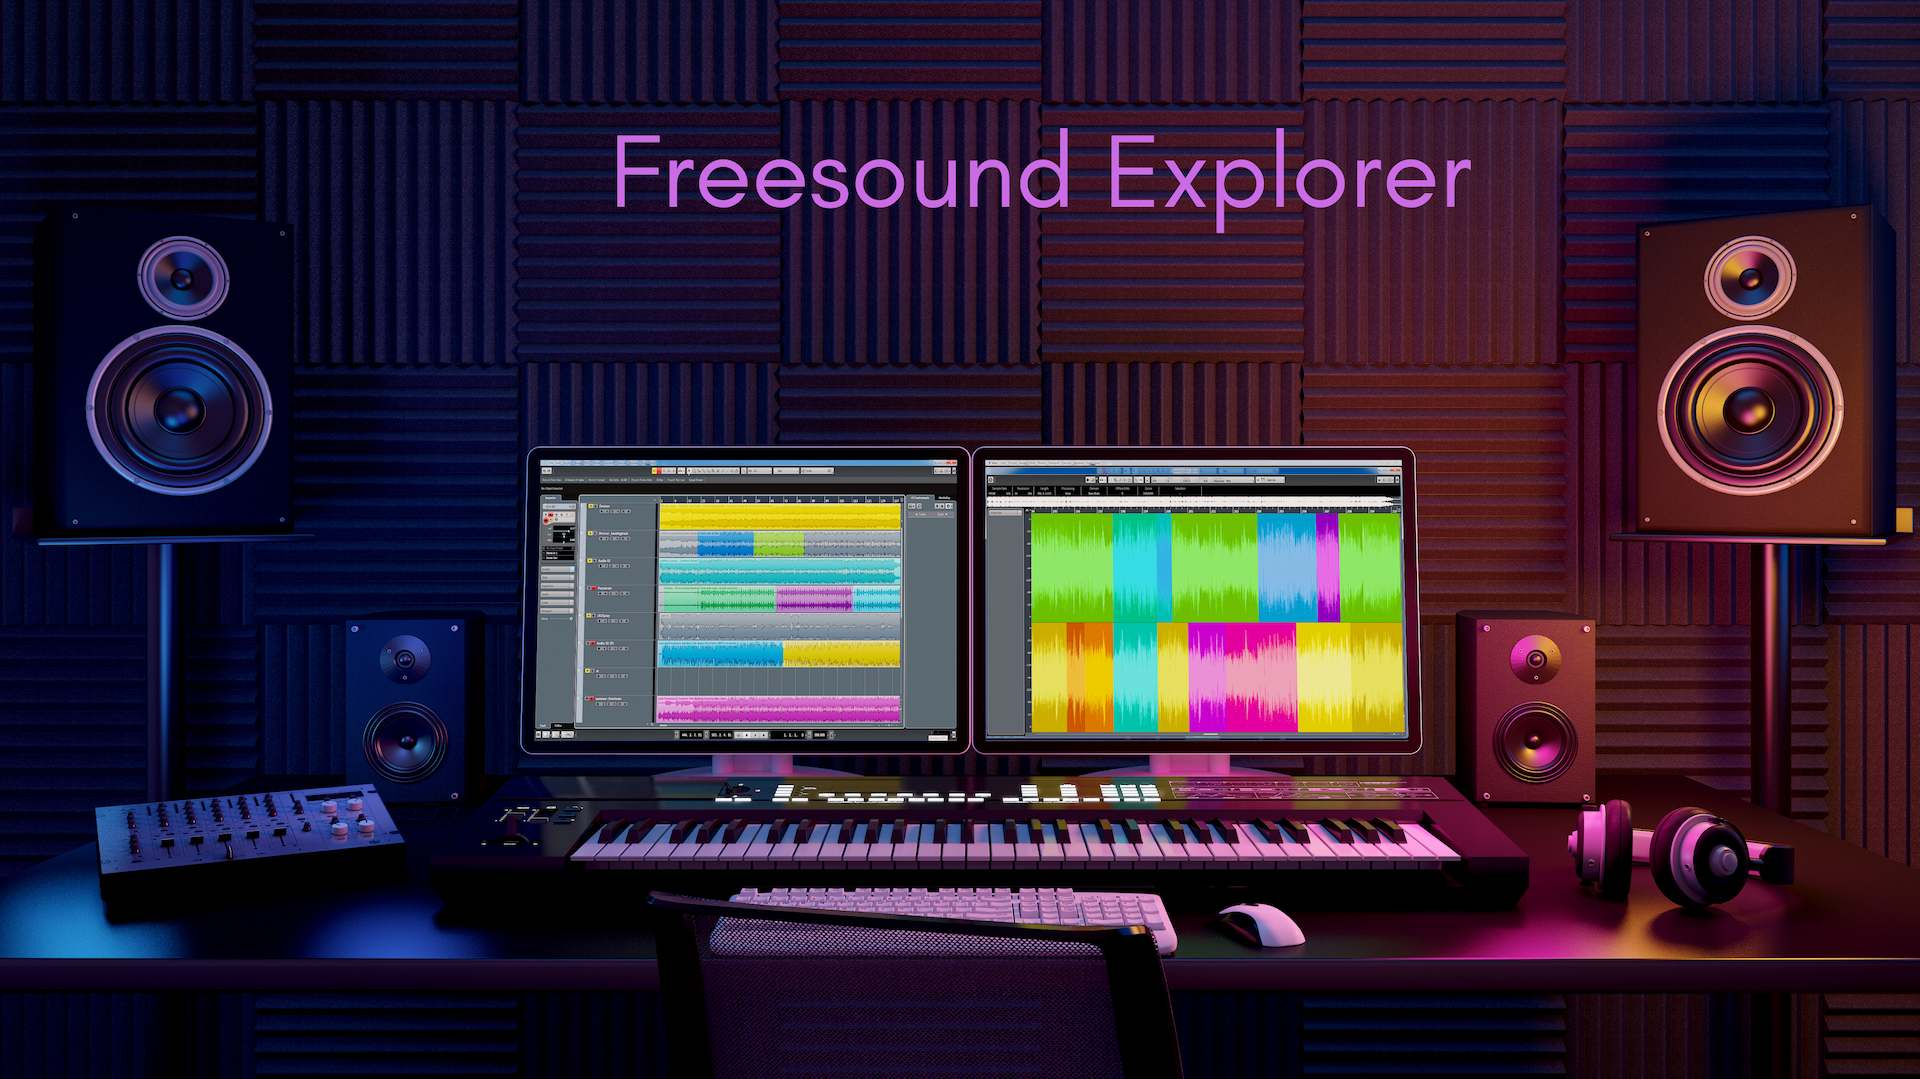
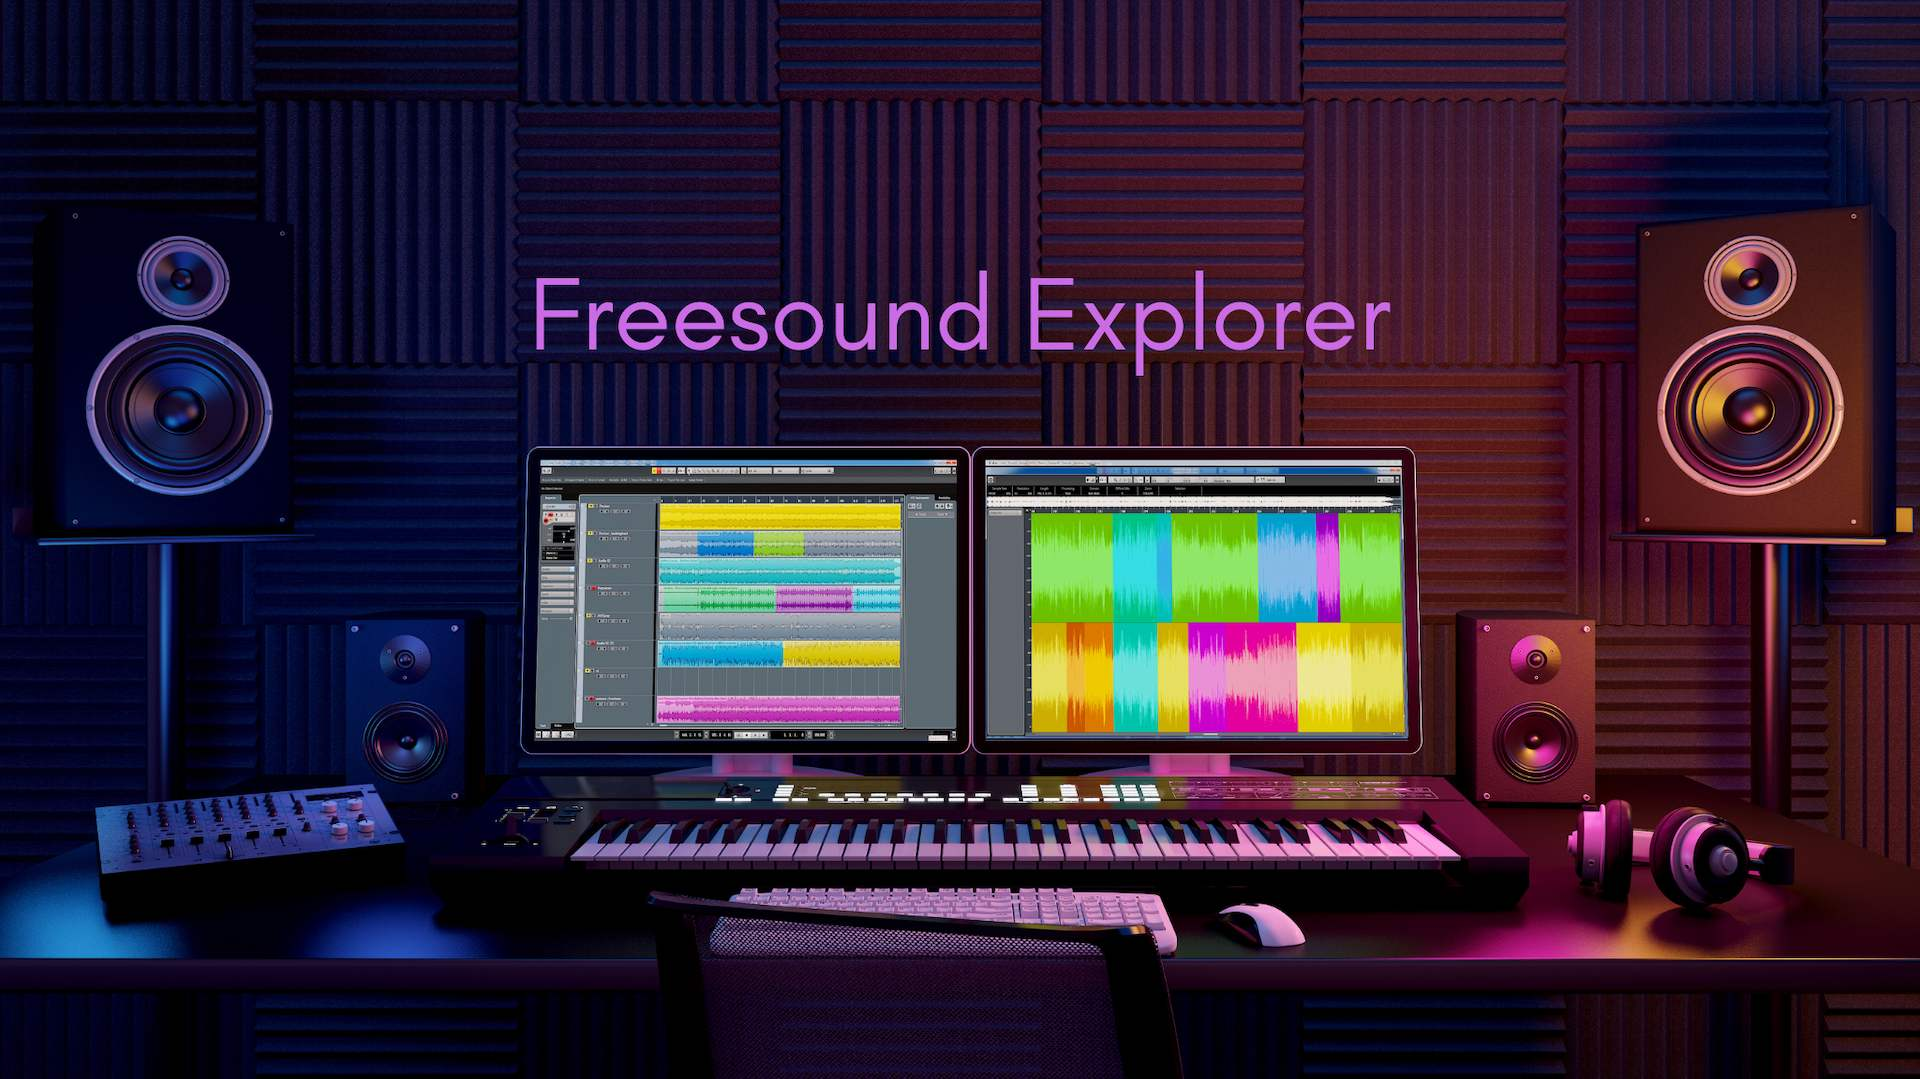
claude

diff --git a/src/app/components/WaveformPlayer.tsx b/src/app/components/WaveformPlayer.tsx
@@ -14,6 +14,16 @@ const WaveformPlayer: React.FC<WaveformPlayerProps> = ({ audioUrl }) => {
 
   useEffect(() => {
     if (waveformRef.current) {
+      // Bereinige vorherige Instanz
+      if (wavesurfer.current) {
+        try {
+          wavesurfer.current.destroy();
+        } catch (error) {
+          // Ignore all errors including AbortError
+        }
+        wavesurfer.current = null;
+      }
+
       wavesurfer.current = WaveSurfer.create({
         container: waveformRef.current,
         waveColor: '#A855F7',
@@ -30,9 +40,10 @@ const WaveformPlayer: React.FC<WaveformPlayerProps> = ({ audioUrl }) => {
       return () => {
         if (wavesurfer.current) {
           try {
+            wavesurfer.current.pause();
             wavesurfer.current.destroy();
           } catch (error) {
-            // Ignore AbortError
+            // Ignore all cleanup errors
           }
           wavesurfer.current = null;
         }

diff --git a/src/app/components/AuthButton.tsx b/src/app/components/AuthButton.tsx
@@ -16,7 +16,7 @@ export default function AuthButton() {
         <span className="text-sm text-slate-300">
           Willkommen, {user.user_metadata.username || user.email}
         </span>
-        <Link href="/api/auth/logout" className="bg-red-600 text-white font-semibold py-2 px-4 rounded-lg shadow-md hover:bg-red-700 transition-colors duration-200">
+        <Link href="/api/auth/logout" className="bg-red-600/80 backdrop-blur-sm text-white font-semibold py-2 px-4 rounded-lg shadow-md hover:bg-red-700/80 transition-all duration-200 border border-red-500/20">
           Abmelden
         </Link>
       </div>

diff --git a/src/app/page.tsx b/src/app/page.tsx
@@ -87,7 +87,7 @@ export default function HomePage() {
                 alt="Music Studio" 
                 width={1920}
                 height={600}
-                className="w-full h-[300px] sm:h-[400px] lg:h-[500px] object-cover object-top"
+                className="w-full h-[300px] sm:h-[400px] lg:h-[500px] object-cover object-[50%_55%]"
                 priority
               />
             </picture>
